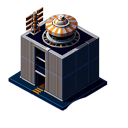
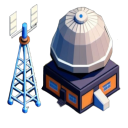
small UI refactor

diff --git a/Assets/Scripts/FactoryGameController.cs b/Assets/Scripts/FactoryGameController.cs
@@ -10,6 +10,7 @@ public class FactoryGameController : GameController
 {
     public GameObject resetButton;
     public GameObject pauseButton;
+    public GameObject maxTicksButton;
     public int HQOreBuffer = 3;
     public int spawnAttempts = 5;
     public float oreSpawnFactor = 0.5f;
@@ -40,7 +41,7 @@ public class FactoryGameController : GameController
         resetComponent.onClick.AddListener(this.Reset);
 
         Button pauseComponent = this.pauseButton.GetComponent<Button>();
-        pauseComponent.onClick.AddListener(this.PausePlay);
+        pauseComponent.onClick.AddListener(this.TogglePausePlay);
 
         this.pauseTextComponent = this.pauseButton.GetComponentInChildren<TextMeshProUGUI>();
         this.pauseTextComponent.SetText("Play");
@@ -115,10 +116,17 @@ public class FactoryGameController : GameController
         };
     }
 
-    private void PausePlay()
+    private void TogglePausePlay()
     {
-        this.readyForTicks = !this.readyForTicks;
-        this.pauseTextComponent.SetText(this.readyForTicks ? "Pause" : "Play");
-        this.PlayerComponent.ToggleFogPosition(!this.readyForTicks);
+        this.readyForTicks = !this.readyForTicks; // toggle
+        this.RenderPausePlay(!this.readyForTicks); // if not ready, then render paused
+    }
+
+    private void RenderPausePlay(bool paused)
+    {
+        string playText = "Play";
+        string pauseText = "Pause";
+        this.pauseTextComponent.SetText(paused ? pauseText : playText);
+        this.PlayerComponent.ToggleFogPosition(paused); // if paused, then move flow closer
     }
 }

diff --git a/Assets/Scripts/GameController.cs b/Assets/Scripts/GameController.cs
@@ -14,6 +14,7 @@ public class GameController : MonoBehaviour
     protected int randomSeed = 0;
     protected System.Random random;
     protected bool readyForTicks = false;
+    protected int maxTicks = 0;
     private Dictionary<System.Numerics.Vector2, Dictionary<string, WorldObject>> worldObjects =
         new();
     private List<DeletionQueueItem> queuedForDeletion = new();
@@ -113,6 +114,12 @@ public class GameController : MonoBehaviour
     {
         // If we aren't ready for ticks, the main game loop won't run
         if (!this.readyForTicks)
+        {
+            return;
+        }
+
+        // If the max ticks is set and we've reached it, stop the game loop
+        if (this.maxTicks != 0 && this.Tick >= this.maxTicks)
         {
             return;
         }
